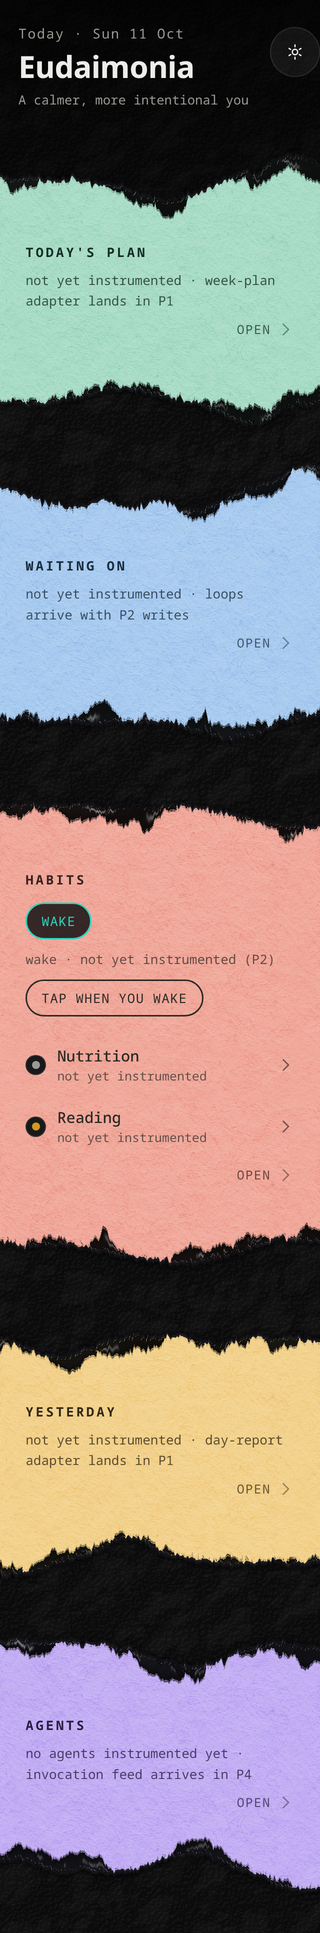
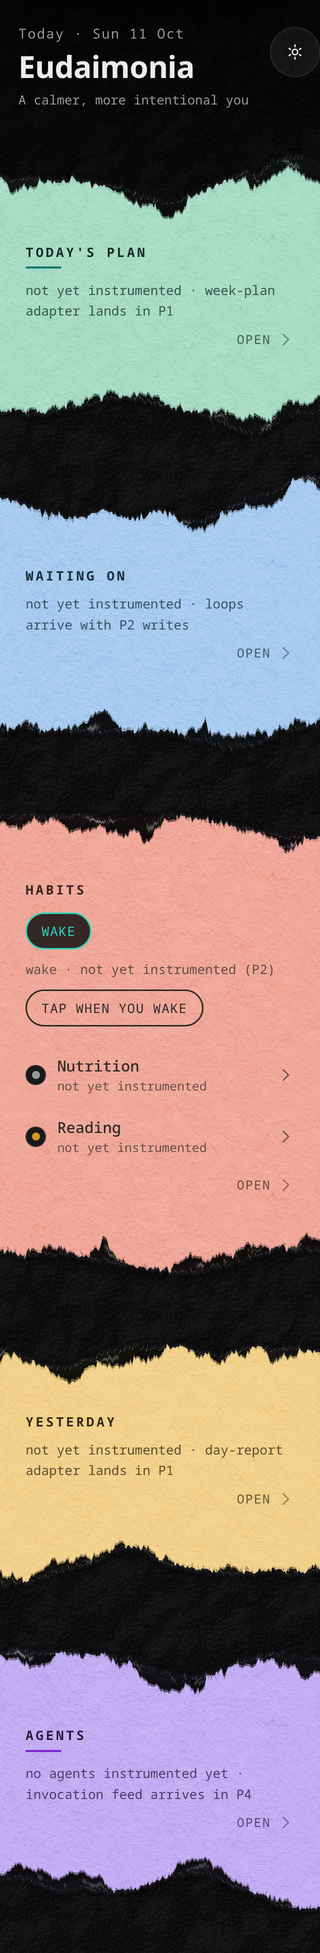
feat(design): restore the hue-law accents, inside the content not on the perimeter
The accents mark WHO ACTS (01 §4): teal on Today's Plan, plum on Agents.
The other three sheets carry none — an accent on every section signals
nothing.

Two things had to change to bring them back.

WHERE. The earlier form was a 3px rule at the paper's left edge running
its full height. That is a border, it sits on the torn perimeter, and it
competes with the tear for the eye. The accent is now a short mark under
the heading, inside the content box, where it labels the content it
belongs to and never touches an edge.

WHAT COLOUR. The raw accents are tuned for glass and the black skin and
are invisible on their own paper: --accent-1 measures 1.22 on mint and
--accent-2 measures 1.59 on lavender, against a 3.0 non-text floor.
Restoring them literally would have put two marks on the page that
nobody can see. Added --accent-1-ink #0F766E (3.58 on mint) as teal's
paper pair, matching the --accent-2-ink precedent (3.55 on lavender).

Both pairings are asserted in contrast.test.ts, along with the inverse:
if the RAW accents ever clear 3.0 on those sheets, the sheet was paled
and the -ink pair may be redundant. That is the same shape as the
existing state-dot assertion, and it is there so the next person does not
have to rediscover why the pairs exist.

The dead `rule?: TornRule` field is gone from PlazaStrip, replaced by
`accent?: SectionAccent`, which something actually reads. TornSheet keeps
its own `rule` prop; the component still exists, the Plaza just no longer
[…]

diff --git a/client/src/theme/contrast.test.ts b/client/src/theme/contrast.test.ts
@@ -116,6 +116,15 @@ const TEXT_PAIRS: ReadonlyArray<readonly [string, Rgba, number, string]> = [
   ["--accent-2-ink", CREAM, 5.98, "on cream"],
 ];
 
+/**
+ * [accent token, sheet token, measured CR] — the hue-law accent painted
+ * onto the sheet that carries it. Non-text, floor >= 3.0.
+ */
+const ACCENT_SHEET_PAIRS: ReadonlyArray<readonly [string, string, number]> = [
+  ["--accent-1-ink", "--sheet-mint", 3.58],
+  ["--accent-2-ink", "--sheet-lavender", 3.55],
+];
+
 /** [tint token, measured ink CR from 01 §1] — warm dark ink over each tint. */
 const PAPER_INK_PAIRS: ReadonlyArray<readonly [string, number]> = [
   // Section tints resampled from the ratified mockup 2026-10-10 and
@@ -203,6 +212,40 @@ describe("contrast lint (01 v2 §7 gate 1) — computed, not transcribed", () =>
   // 2026-10-10). Two assertions, and the first is the reason for the second:
   // the paper pair genuinely fails on these grounds, so the dot gets a well
   // back down to the matte skin and carries the GLASS pair there instead.
+  describe("the hue-law accent on its own sheet", () => {
+    // The accent marks who acts (01 §4). On paper it must use the -ink
+    // pair: the raw accents are tuned for glass and the black skin, and
+    // on a saturated sheet they disappear. Both assertions matter — the
+    // second is why the first one exists.
+    for (const [accent, sheet, measured] of ACCENT_SHEET_PAIRS) {
+      it(`${accent} on ${sheet}: >= ${NON_TEXT_FLOOR} non-text (measured ${measured})`, () => {
+        const ratio = contrastRatio(token(accent), token(sheet));
+        expect(
+          ratio,
+          `${accent} on ${sheet}: computed ${ratio.toFixed(2)}`,
+        ).toBeGreaterThanOrEqual(NON_TEXT_FLOOR);
+        expect(
+          Math.abs(ratio - measured),
+          `${accent} on ${sheet}: computed ${ratio.toFixed(2)} drifted from ${measured}`,
+        ).toBeLessThanOrEqual(TOLERANCE);
+      });
+    }
+
+    it("the RAW accents would be invisible there, which is why the pairs exist", () => {
+      for (const [raw, sheet] of [
+        ["--accent-1", "--sheet-mint"],
+        ["--accent-2", "--sheet-lavender"],
+      ] as const) {
+        const ratio = contrastRatio(token(raw), token(sheet));
+        expect(
+          ratio,
+          `${raw} on ${sheet} computes ${ratio.toFixed(2)} — if this ever clears ` +
+            `${NON_TEXT_FLOOR}, the sheet was paled and the -ink pair may be redundant`,
+        ).toBeLessThan(NON_TEXT_FLOOR);
+      }
+    });
+  });
+
   describe("state dots on saturated section tints", () => {
     it("would fail the non-text floor if painted straight onto the tint", () => {
       for (const tintToken of SECTION_TINTS) {

diff --git a/client/src/components/paper/TornPaperSection.tsx b/client/src/components/paper/TornPaperSection.tsx
@@ -15,6 +15,13 @@ export type PaperVariant = "mint" | "sky" | "blush" | "butter" | "lavender";
 /** The authored tear contours. Three, so no two sheets share a silhouette. */
 export type TearVariant = "a" | "b" | "c";
 
+/**
+ * The hue law (01 §4): teal marks where YOU act, plum where AGENTS act.
+ * Optional, and most sheets go without — an accent on every section is
+ * decoration, not a signal.
+ */
+export type SectionAccent = "accent-1" | "accent-2";
+
 export interface TornPaperSectionProps {
   title: string;
   variant: PaperVariant;
@@ -26,6 +33,8 @@ export interface TornPaperSectionProps {
    * anywhere along its width.
    */
   tearOffset?: number;
+  /** The hue-law accent, if this section carries one. */
+  accent?: SectionAccent;
   children: ReactNode;
   className?: string;
   id?: string;
@@ -46,6 +55,7 @@ export function TornPaperSection({
   variant,
   tear = "a",
   tearOffset = 0,
+  accent,
   children,
   className = "",
   id,
@@ -55,6 +65,7 @@ export function TornPaperSection({
     "torn-section",
     `torn-section--${variant}`,
     tear === "a" ? "" : `torn-section--tear-${tear}`,
+    accent === undefined ? "" : `torn-section--${accent}`,
     className,
   ]
     .filter(Boolean)
@@ -78,6 +89,9 @@ export function TornPaperSection({
 
         <div className="torn-section__content">
           <h2 className="torn-section__heading">{title}</h2>
+          {accent === undefined ? null : (
+            <span aria-hidden="true" className="torn-section__accent" />
+          )}
           {children}
         </div>
       </div>

diff --git a/client/src/routes/plazaModel.ts b/client/src/routes/plazaModel.ts
@@ -1,5 +1,8 @@
-import type { TornRule } from "../components/TornSheet";
-import type { PaperVariant, TearVariant } from "../components/paper/TornPaperSection";
+import type {
+  PaperVariant,
+  SectionAccent,
+  TearVariant,
+} from "../components/paper/TornPaperSection";
 
 // The Plaza's strip model — the shape T1.6's coverage-view feed will fill.
 // Until the P1 adapters land (T1.2–T1.5), every strip renders its TRUE state:
@@ -21,8 +24,12 @@ export interface PlazaStrip {
    */
   tear: TearVariant;
   tearOffset?: number;
-  /** Carried by TornSheet, which the Plaza no longer renders. */
-  rule?: TornRule;
+  /**
+   * The hue-law accent (01 §4): teal where you act, plum where agents
+   * act. Only two sections carry one; an accent on every sheet signals
+   * nothing.
+   */
+  accent?: SectionAccent;
   /** Where the chevron leads (the section's real route). */
   to: string;
   state: StripState;
@@ -41,7 +48,7 @@ export const PLAZA_STRIPS: readonly PlazaStrip[] = [
     title: "Today's Plan",
     variant: "mint",
     tear: "a",
-    rule: "accent-1",
+    accent: "accent-1",
     to: "/routine",
     state: "uninstrumented",
     lines: ["not yet instrumented · week-plan adapter lands in P1"],
@@ -81,7 +88,7 @@ export const PLAZA_STRIPS: readonly PlazaStrip[] = [
     variant: "lavender",
     tear: "b",
     tearOffset: 420,
-    rule: "accent-2",
+    accent: "accent-2",
     to: "/agents",
     state: "uninstrumented",
     lines: ["no agents instrumented yet · invocation feed arrives in P4"],

diff --git a/client/src/components/paper/torn-paper.css b/client/src/components/paper/torn-paper.css
@@ -190,6 +190,31 @@
   color: var(--paper-text);
 }
 
+/* ---- the section accent ----------------------------------------------
+   The hue law (01 §4): teal where YOU act, plum where AGENTS act. Two of
+   the five sheets carry it; the rest are unaccented, which is what makes
+   it mean anything.
+
+   It is a short mark under the heading, INSIDE the content box. The
+   earlier form was a 3px rule at the paper's left edge running its full
+   height — that is a border, it sits on the torn perimeter, and it
+   fights the tear for the eye. A sheet of torn paper has no edge
+   treatment; the accent belongs with the content it labels.
+
+   Painted from the -ink pair, never the raw accent: --accent-1 measures
+   1.22 on mint and --accent-2 1.59 on lavender, both invisible. */
+.torn-section__accent {
+  display: block;
+  width: 2.25rem;
+  height: 2px;
+  margin: -0.2rem 0 0.7rem;
+  border-radius: 1px;
+  background: var(--section-accent);
+}
+
+.torn-section--accent-1 { --section-accent: var(--accent-1-ink); }
+.torn-section--accent-2 { --section-accent: var(--accent-2-ink); }
+
 /* ---- variants -------------------------------------------------------- */
 .torn-section--mint { --paper-color: var(--sheet-mint); --paper-text: var(--sheet-mint-ink); }
 .torn-section--sky { --paper-color: var(--sheet-sky); --paper-text: var(--sheet-sky-ink); }

diff --git a/client/src/theme.css b/client/src/theme.css
@@ -10,7 +10,13 @@
   --bg: #0B0B0C;            --text: #EDEDEA;         --muted: #9A9A94;
   /* accents — you act / agents act (hue law, 01 §4) */
   --accent-1: #2DD4BF;      --accent-2: #B872F2;
-  --accent-2-ink: #7E22CE;  /* plum's paper pair (5.98 on cream) */
+  --accent-2-ink: #7E22CE;  /* plum's paper pair (5.98 on cream, 3.55 on lavender) */
+  --accent-1-ink: #0F766E;  /* teal's paper pair (3.58 on mint) */
+  /* The raw accents are for glass and the black skin ONLY. On their own
+     section paper they vanish: --accent-1 measures 1.22 on mint and
+     --accent-2 measures 1.59 on lavender, against a 3.0 non-text floor.
+     An accent painted onto a sheet uses the -ink pair, and the pairing is
+     asserted in contrast.test.ts rather than left to whoever edits next. */
   /* glass — touching only (01 §2 L1) */
   --glass-fill: rgba(255,255,255,0.06);
   --glass-border: rgba(255,255,255,0.10);   /* 1px */

diff --git a/client/src/routes/PlazaScreen.tsx b/client/src/routes/PlazaScreen.tsx
@@ -142,6 +142,7 @@ export function PlazaScreen() {
           variant={strip.variant}
           tear={strip.tear}
           tearOffset={strip.tearOffset}
+          accent={strip.accent}
           className="plaza-sheet"
         >
           <div style={{ display: "grid", gap: "0.55rem" }}>
